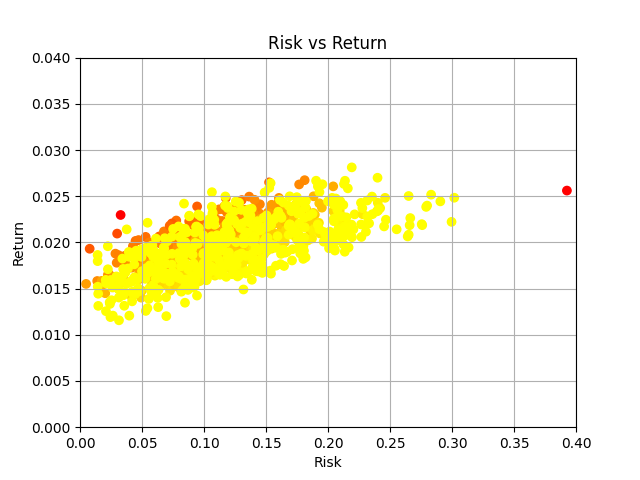
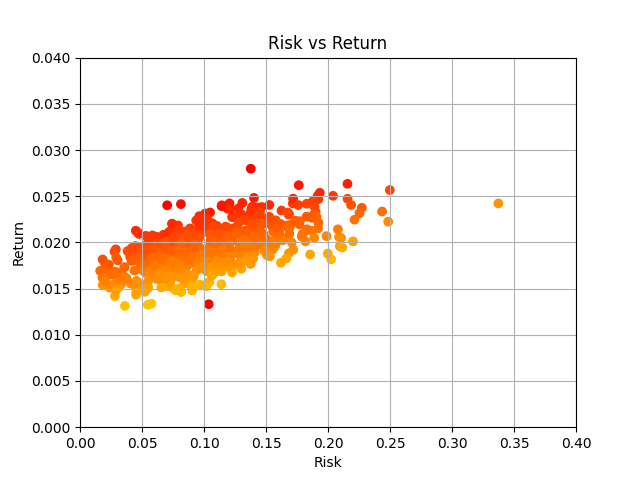
better markowitz

Changed region(s): [[0.125, 0.3438, 0.7188, 0.6875], [0.875, 0.375, 0.9062, 0.4062], [0.75, 0.4062, 0.7812, 0.4375]]

diff --git a/src/markowitz_bullet.py b/src/markowitz_bullet.py
@@ -9,7 +9,8 @@ f = open('data/outN20q1B10P100.json')
 data = json.load(f)
 
 N = data['N']               # Universe size
-q = data['q']               # Risk appetite
+#q = data['q']               # Risk appetite
+q = 0.55
 B = data['B']               # Budget
 P = data['P']               # Penalization factor
 tickers = data['tickers']   # Tickers
@@ -25,7 +26,7 @@ labels = []
 file_num = 0
 
 for filename in os.listdir('results'):
-    if 'out_normalN20q1.00B10P0.900C4.000.csv' in filename:
+    if 'out_normalN20q0.55B10P0.900C4.000.csv' in filename:
         ff = open('results/' + filename)
 
         start = filename.rfind('q')
@@ -44,8 +45,8 @@ for filename in os.listdir('results'):
 
             num_occur = int(best_solution_line.split(',')[-1])
 
-            # if sum(best_solution) != B:
-            #     continue
+            if sum(best_solution) != B:
+                continue
 
             portfolio_return = 0
             portfolio_risk = 0
@@ -81,7 +82,7 @@ for filename in os.listdir('results'):
         print('Average Return: {}'.format(sum(rets) / len(rets)))
         print('Average Risk: {}'.format(sum(rsks) / len(rsks)))
         file_num += 1
-    elif 'q1.00B10P100_solution.json' in filename:
+    elif 'q0.55B10P100_solution.json' in filename:
         ff = open('results/' + filename)
         best_solution = json.load(ff)["solution"]
 
@@ -109,7 +110,7 @@ for filename in os.listdir('results'):
         returns.append(portfolio_return)
         risks.append(portfolio_risk)
         labels.append(filename[start:end])
-        if 'q1.00' in filename:
+        if 'q0.55' in filename:
             objectives.append(-1)
         else:
             objectives.append(-1)
